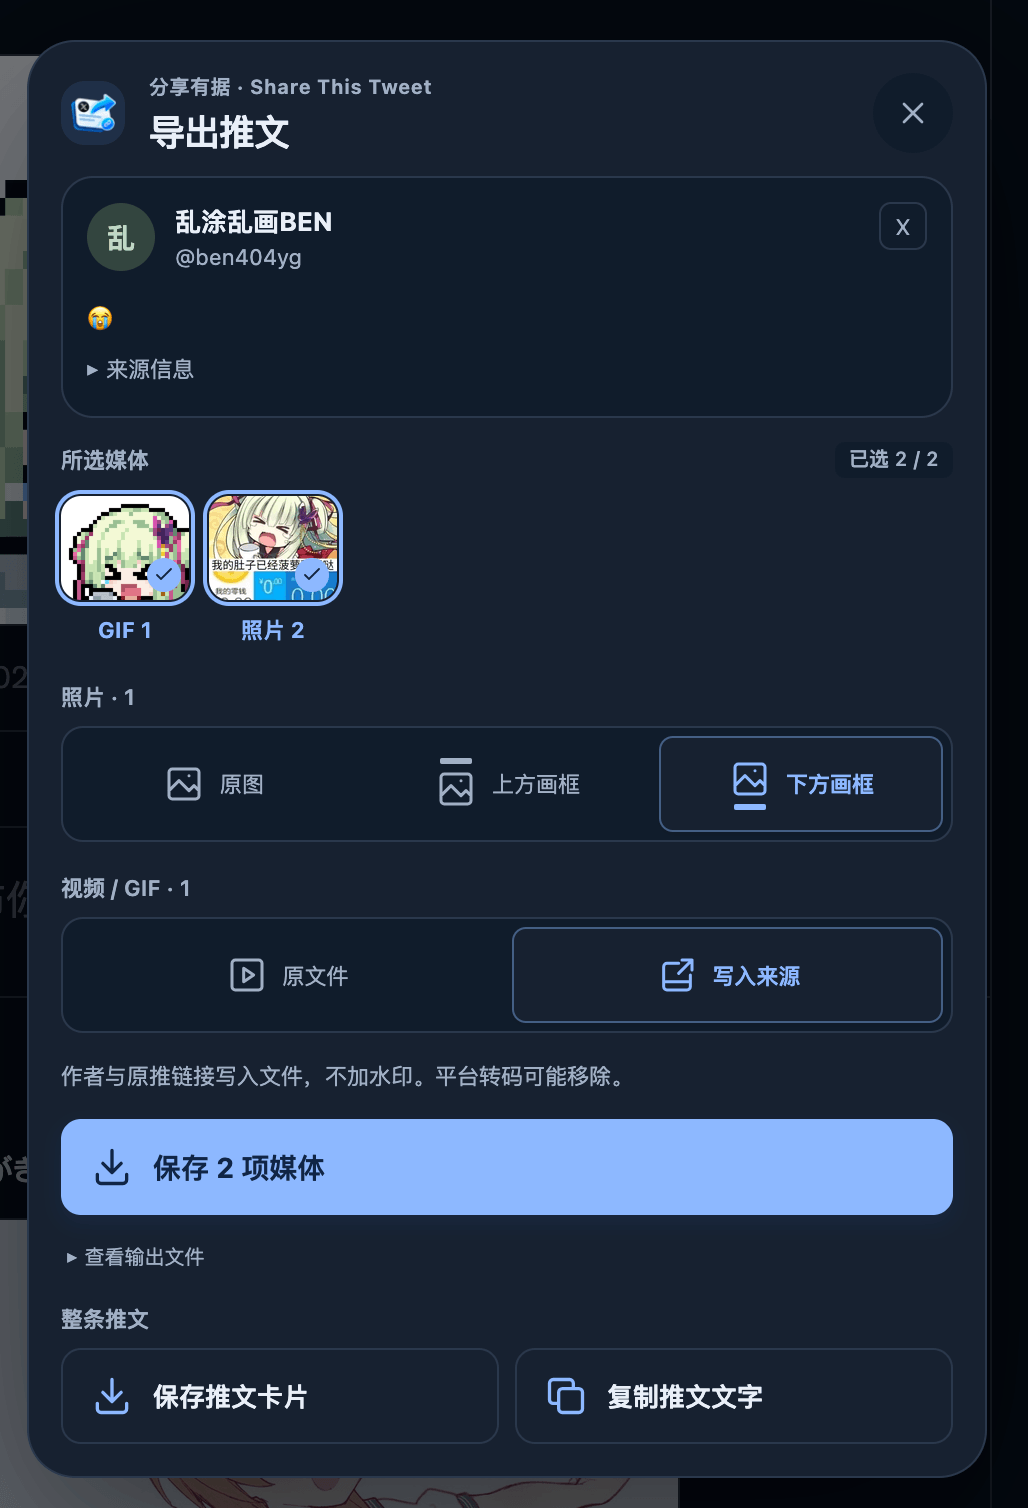
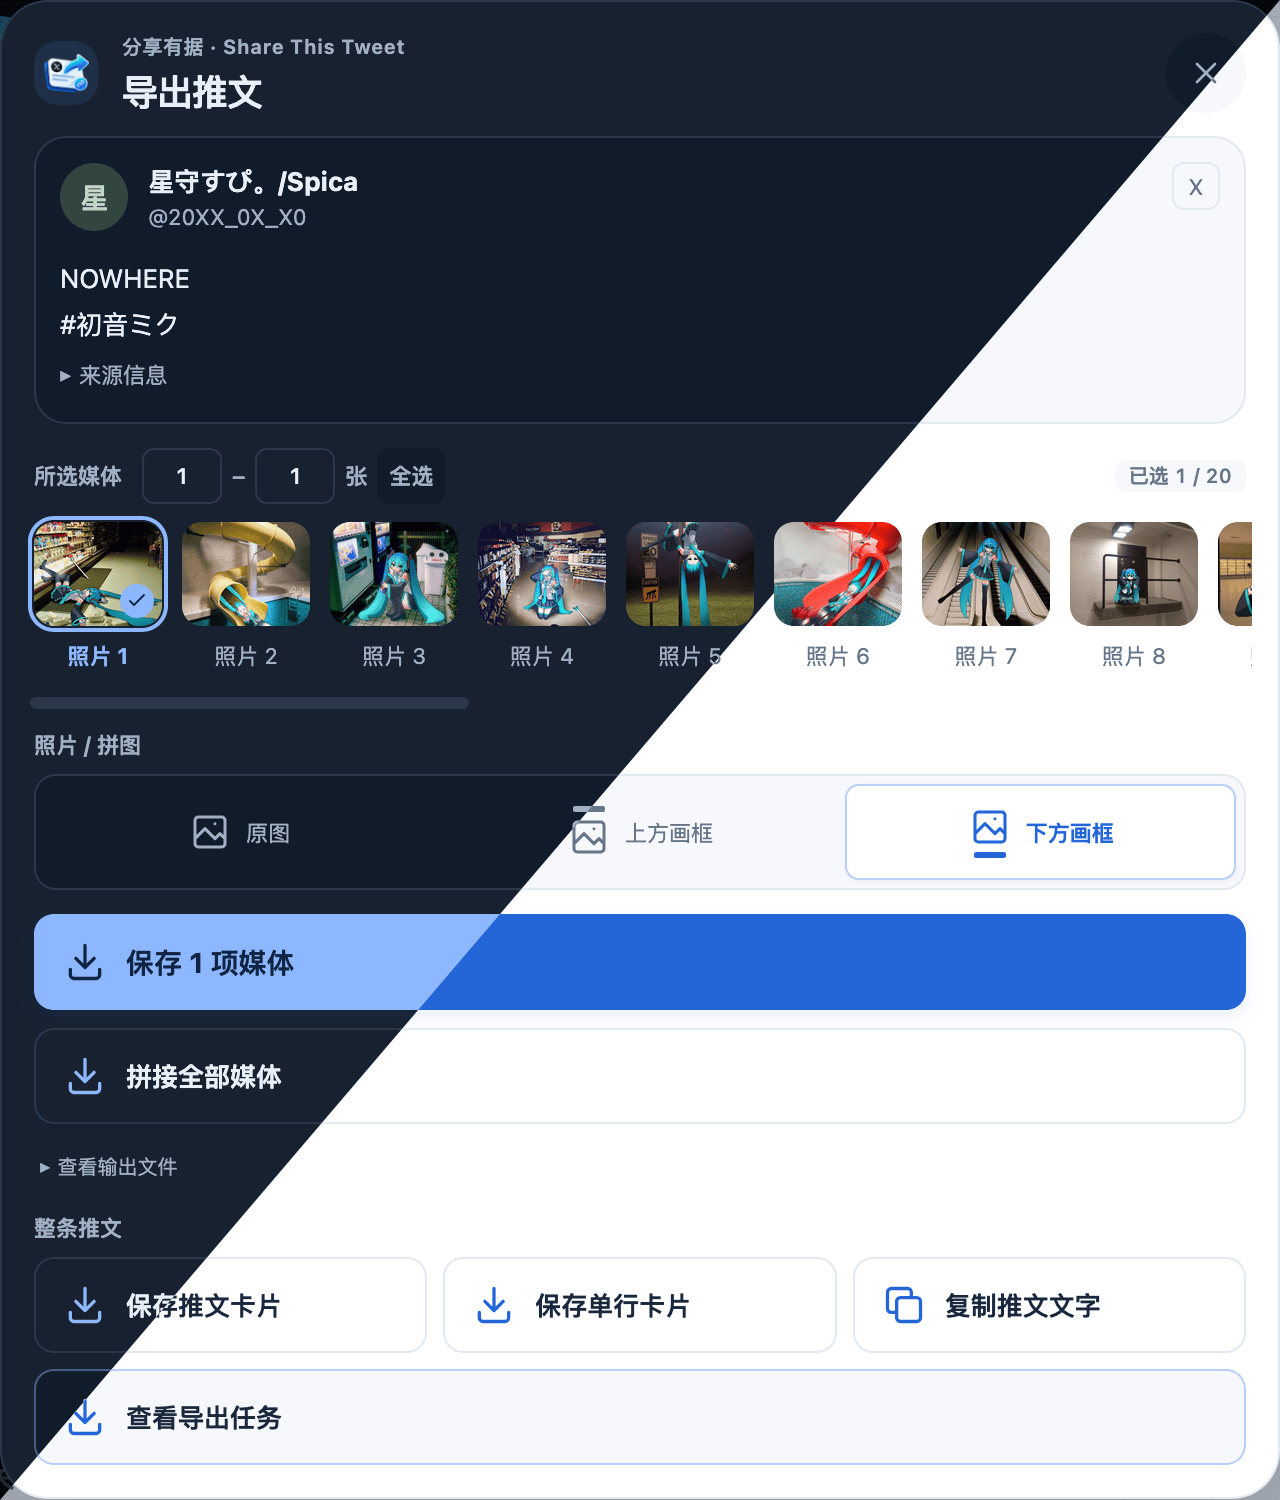
docs: refresh 0.7 user guide and screenshots

diff --git a/docs/guide/usage.md b/docs/guide/usage.md
@@ -4,7 +4,9 @@
 
 在 Firefox 中进入 X 推文详情页，点击「分享有据」的导出入口。时间线和搜索结果中不显示该入口；安装时已经打开的页面需要刷新。
 
-点选媒体缩略图，可以选择一项或多项。有引用推文时，切换「主推文 / 引用推文」，分别选择和保存其中的媒体。
+每条推文最多支持 20 项媒体。可以点选缩略图，也可以输入起止序号。例如起点填 `3`、终点填 `8`，会选中第 3 到第 8 项。编辑期间可以清空输入框，离开输入框或按 Enter 时，无效值会恢复为上次有效值或可用边界。「全选」选中当前推文的全部媒体，再点「全不选」即可清空。
+
+有引用推文时，切换「主推文 / 引用推文」，分别选择和保存其中的媒体。
 
 | 操作                   | 使用的内容                       |
 | ---------------------- | -------------------------------- |
@@ -15,7 +17,9 @@
 
 手机上推文预览默认折叠，保存等操作固定在面板底部。
 
-![在导出面板中选择媒体及保存方式](../images/media-save.png)
+![导出面板中的起止序号、全选、媒体缩略图和保存按钮](../images/media-save.png)
+
+面板示例来自[星守すぴ。／Spica 的原帖](https://x.com/20XX_0X_X0/status/2122284496955613286)。
 
 ## 保存照片、视频与 GIF
 
@@ -26,7 +30,7 @@
 
 普通视频的「原文件」保存 X 提供的 MP4。「写入来源」在文件中保存发布者和原推链接，不加水印，也不重新压制普通视频。此方式支持常见 H.264 MP4，可含 AAC 音频，默认下载保护上限为 512 MiB；触发后可强制重试，格式不支持时可改选原文件。
 
-GIF 默认在本机转为 `.gif`。关闭转码或超出转码限制时，会保存原始 MP4；超限会说明原因，转码失败会报错。GIF 不提供来源画框。普通视频的上方／下方画框需要开启[实验性动态处理](experimental.md#动态拼图与视频画框)。
+GIF 默认在本机转为 `.gif`。关闭转码后会保存 MP4，仍可选择是否写入来源。若入队后才触发转码保护，任务会说明原因并保存未写入来源的原始 MP4，可从任务页强制重试。GIF 不提供来源画框。普通视频的上方／下方画框需要开启[实验性动态处理](experimental.md#动态拼图与视频画框)。
 
 ## 拼接全部媒体
 
@@ -44,9 +48,17 @@ GIF 默认在本机转为 `.gif`。关闭转码或超出转码限制时，会保
 
 复制格式由[设置](settings.md#复制文字)中的模板决定。复制后可粘贴到目标应用，保存的图片和视频可从该应用中选择发送；扩展当前不提供系统分享按钮。
 
-## 查看与保存导出任务
+## 导出前的超限提示
 
-点击导出时，会根据已有尺寸、视频时长等信息检查保护限制。预计超限会在当前面板提供「仍然执行」和「取消」；确认仅对这一次任务放宽保护限制，不改变偏好设置。需下载或探测后才能确定的限制，会在任务中提供「强制重试」。
+点击导出时，扩展会根据已有尺寸、视频时长等信息估算是否超限。当前面板会列出预计超限的原因。选「仍然执行」只放宽本次任务的保护限制，选「取消」可回到面板调整导出方式。
+
+![拼图预计超出尺寸限制，面板提供仍然执行和取消](../images/export-limit-confirm.png)
+
+截图里的拼图会处理整条推文的 20 张图，即使当前只勾选第 1 张。示例使用[星守すぴ。／Spica 的推文](https://x.com/20XX_0X_X0/status/2122284496955613286)。
+
+若下载或探测后才触发可放宽的保护，可展开任务找「强制重试」。
+
+## 查看与保存导出任务
 
 保存媒体、画框、拼图和卡片后，先等待面板显示「已加入队列」，再离开原推文。扩展弹窗和导出面板都提供「查看导出任务」入口。
 
@@ -72,11 +84,11 @@ GIF 默认在本机转为 `.gif`。关闭转码或超出转码限制时，会保
 
 ## 取消、中断与重试
 
-任务串行处理，同一时间只运行一个。多项媒体中某一项失败，不会阻止其余项尝试输出；已有有效文件时标记「部分完成」，详情列出未完成项；保护限制标记「达到保护限制」，没有有效输出且发生实际处理错误时标记「失败」。
+任务一次处理一个。批量导出中单项失败后，队列会继续尝试其余项。已有可用文件时，任务显示「部分完成」，展开可查看文件和未完成原因。没有文件时，触发可放宽的保护显示「达到保护限制」，其他错误显示「失败」。动态处理如果生成了替代文件，任务会保留文件并说明回退原因。
 
 排队或处理中的任务可以取消。关闭原推文不会取消已经入队的任务；关闭浏览器、重新加载扩展或系统回收进程会中断处理。扩展重新启动后，未开始的任务继续排队，已中断的任务需手动重试。
 
-普通重试会重新处理，不从视频编码中途恢复，并跳过已成功保存输出的再次下载。强制重试创建独立任务，保留原任务和文件，绕过可放宽的尺寸、容量、时长与帧率保护；格式、链接安全及数据完整性检查仍然执行。Android 后台运行仍受系统限制，保留任务页也不能保证进程始终存活。
+普通重试沿用原任务并从头处理，跳过已成功保存的文件。强制重试保留原任务和文件，另建一个任务重新处理原来的全部选择，可能再次保存已成功的项。强制任务会跳过可放宽的尺寸、大小、时长或帧率保护，仍需通过格式、链接和数据完整性检查。
 
 ## 缓存期限与清理
 

diff --git a/docs/guide/experimental.md b/docs/guide/experimental.md
@@ -13,7 +13,7 @@
 
 ### 输出规则
 
-GIF 输出保持完整时长并无限循环，不包含音轨；默认最长边为 960 px，保持宽高比且不放大，最高 20 fps，不升采样低帧率。使用自适应调色板，最多 256 色。
+GIF 输出保留完整时长并无限循环，最长边不超过 960 px，最高 20 fps，使用最多 256 色的自适应调色板。输出保持宽高比，低于上限的尺寸和帧率保持原值。强制转码也沿用这些输出规则。
 
 GIF 可以独立选择写入来源。转码开启时，先生成 `.gif`，再写入来源；关闭时保存原始 MP4，并按所选方式决定是否写入来源。GIF 不提供上方或下方画框。
 
@@ -27,7 +27,7 @@ GIF 可以独立选择写入来源。转码开启时，先生成 `.gif`，再写
 
 各项设为 `0` 表示不限。
 
-超出任一限制时，将使用已经下载的原始 MP4 保存，并在任务中说明原因。下载、探测或转码失败会报错；取消任务不会触发保存。转码不设自动超时，必要时从任务页取消。
+导出前预计超限时，可以选择「仍然执行」或取消。入队后才触发保护时，任务会说明原因，直接保存已下载的原始 MP4，跳过写入来源。需要 `.gif` 时，可在任务中选择「强制重试」。下载、探测或转码失败会给出具体错误。面板与任务页的操作见[使用](usage.md#导出前的超限提示)。
 
 ## 动态拼图与视频画框
 
@@ -66,7 +66,7 @@ GIF 可以独立选择写入来源。转码开启时，先生成 `.gif`，再写
 
 ### 超限与失败
 
-导出前能根据已有信息判断超限时，当前面板提供「仍然执行」。确认后仅本次任务跳过性能保护限制。下载或探测后才发现超限时，默认输出规则如下，任务同时提供「强制重试」；强制任务实际处理失败时保留失败原因，不再自动换成替代输出。
+导出前预计超限时，可以在当前面板选择「仍然执行」，仅本次任务跳过处理保护。普通任务入队后才发现超限时，按下表处理。若已生成替代文件，可在任务页选择「强制重试」来重新尝试原来的输出格式。操作见[使用](usage.md#取消、中断与重试)。
 
 | 情况                 | 结果                                           |
 | -------------------- | ---------------------------------------------- |
